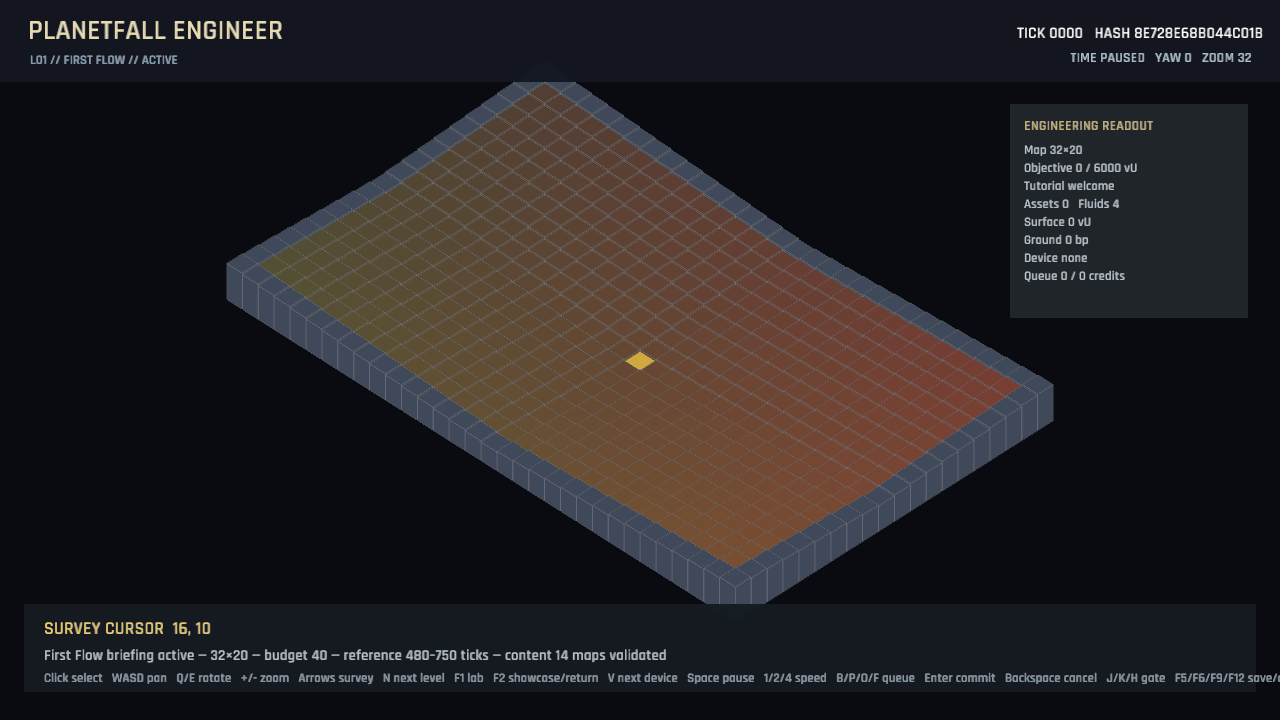
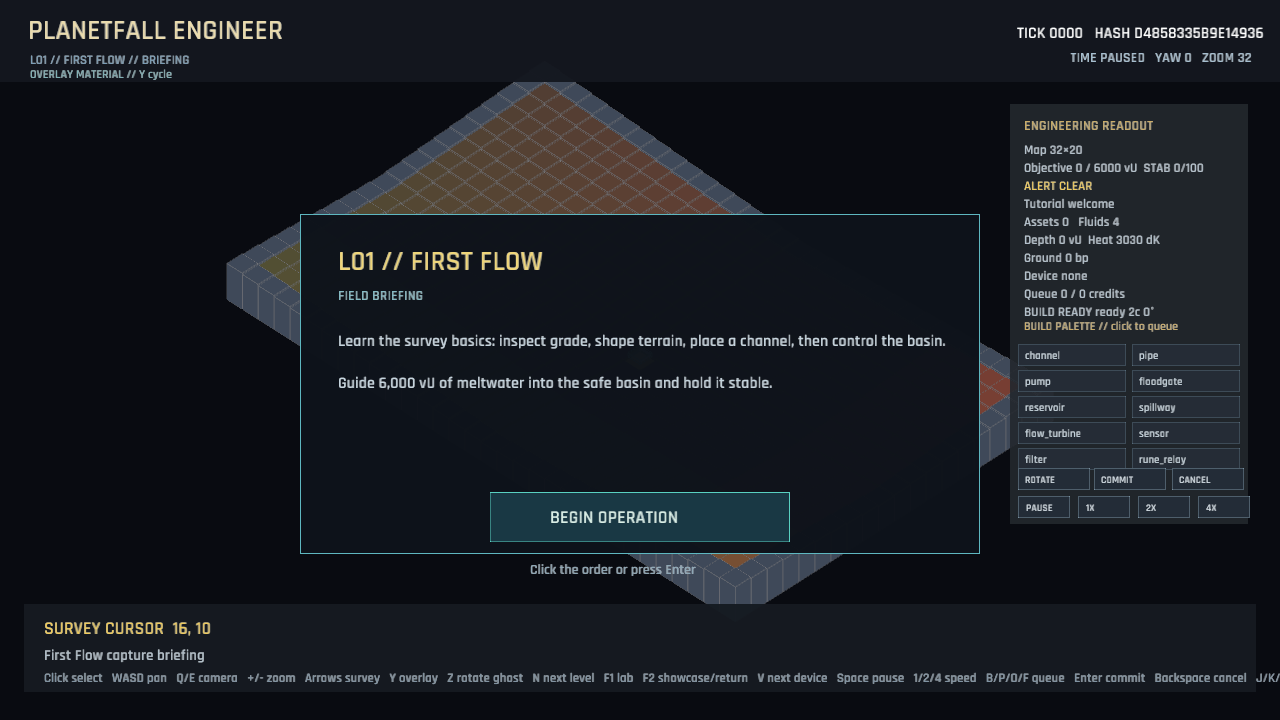
Each restoration front opens with its own field orders (campaign briefings and stage guidance)
The three authored stages previously began as paused maps with only the HUD\nphase label to explain their purpose. A blocking briefing now states each\nstage's lesson and primary objective, and requires the visible BEGIN\nOPERATION action or Enter before commands and simulation can proceed. L02 and\nL03 retain short on-map guides for their surge and reaction lessons after\ndeployment.\n\nThe campaign documentation and 1280×720 briefing captures now describe and\nprove the player-facing deployment flow. cargo fmt --check, Clippy with\nwarnings denied, 54 tests, and the Windows/WebGL publish.ps1 path pass.\n\nCo-Authored-By: GPT-5 <noreply@openai.com>

diff --git a/src/ui.rs b/src/ui.rs
@@ -332,10 +332,18 @@ pub fn draw_hud(ctx: UiContext<'_>) {
     ) {
         draw_terminal_panel(ctx.session);
     }
+    if ctx.session.mission.phase == MissionPhase::Briefing {
+        draw_mission_briefing(ctx.session);
+    }
     if let Some(tutorial) = ctx.session.mission.tutorial.as_ref() {
-        if !tutorial.is_complete() {
+        if ctx.session.mission.phase == MissionPhase::Active && !tutorial.is_complete() {
             draw_tutorial_prompt(tutorial);
         }
+    }
+    if ctx.session.mission.phase == MissionPhase::Active
+        && ctx.session.mission.id != crate::mission::MissionId::L01FirstFlow
+    {
+        draw_stage_guide(ctx.session.mission.id);
     }
     if ctx.pause_menu {
         draw_pause_menu();
@@ -459,6 +467,127 @@ fn draw_terminal_panel(session: &GameSession) {
         336.0,
         396.0,
         TextStyle::new(15.0, Color::new(0.95, 0.8, 0.35, 1.0)).params(),
+    );
+}
+
+fn draw_mission_briefing(session: &GameSession) {
+    let (title, lesson, objective) = match session.mission.id {
+        crate::mission::MissionId::L01FirstFlow => (
+            "L01 // FIRST FLOW",
+            "Learn the survey basics: inspect grade, shape terrain, place a channel, then control the basin.",
+            "Guide 6,000 vU of meltwater into the safe basin and hold it stable.",
+        ),
+        crate::mission::MissionId::L02HoldingLine => (
+            "L02 // THE HOLDING LINE",
+            "Plan for a scheduled surge. Use storage, spillways, and optional sensing to keep the camp dry.",
+            "Hold 6,000 vU safely while the meltwater source rises and falls.",
+        ),
+        crate::mission::MissionId::L03Firebreak => (
+            "L03 // FIREBREAK PROTOCOL",
+            "Combine routing with reaction engineering: water and lava form rock and steam.",
+            "Build a 3,000 vU firebreak before lava can reach the ancient foundation.",
+        ),
+    };
+    draw_rectangle(
+        300.0,
+        214.0,
+        680.0,
+        340.0,
+        Color::new(0.03, 0.05, 0.08, 0.98),
+    );
+    draw_rectangle_lines(
+        300.0,
+        214.0,
+        680.0,
+        340.0,
+        2.0,
+        Color::new(0.35, 0.74, 0.78, 0.95),
+    );
+    draw_ui_text_ex(
+        title,
+        338.0,
+        270.0,
+        TextStyle::new(28.0, Color::new(0.94, 0.84, 0.48, 1.0)).params(),
+    );
+    draw_ui_text_ex(
+        "FIELD BRIEFING",
+        338.0,
+        300.0,
+        TextStyle::new(14.0, Color::new(0.52, 0.74, 0.78, 1.0)).params(),
+    );
+    draw_ui_text_ex(
+        lesson,
+        338.0,
+        346.0,
+        TextStyle::new(16.0, Color::new(0.78, 0.84, 0.88, 1.0)).params(),
+    );
+    draw_ui_text_ex(
+        objective,
+        338.0,
+        388.0,
+        TextStyle::new(16.0, Color::new(0.78, 0.84, 0.88, 1.0)).params(),
+    );
+    draw_rectangle(490.0, 492.0, 300.0, 50.0, Color::new(0.1, 0.22, 0.27, 1.0));
+    draw_rectangle_lines(
+        490.0,
+        492.0,
+        300.0,
+        50.0,
+        1.5,
+        Color::new(0.35, 0.82, 0.76, 1.0),
+    );
+    draw_ui_text_ex(
+        "BEGIN OPERATION",
+        550.0,
+        523.0,
+        TextStyle::new(18.0, Color::new(0.85, 0.94, 0.9, 1.0)).params(),
+    );
+    draw_ui_text_ex(
+        "Click the order or press Enter",
+        530.0,
+        574.0,
+        TextStyle::new(14.0, Color::new(0.56, 0.66, 0.72, 1.0)).params(),
+    );
+}
+
+fn draw_stage_guide(id: crate::mission::MissionId) {
+    let (heading, guidance) = match id {
+        crate::mission::MissionId::L02HoldingLine => (
+            "FIELD GUIDE // HOLDING LINE",
+            "Watch the alert level. The source surges at tick 900; reservoirs retain water and spillways shed excess.",
+        ),
+        crate::mission::MissionId::L03Firebreak => (
+            "FIELD GUIDE // FIREBREAK",
+            "Bring water to lava deliberately: their reaction creates the rock barrier. Keep lava away from the foundation.",
+        ),
+        crate::mission::MissionId::L01FirstFlow => return,
+    };
+    draw_rectangle(
+        24.0,
+        104.0,
+        620.0,
+        76.0,
+        Color::new(0.035, 0.055, 0.08, 0.96),
+    );
+    draw_rectangle_lines(
+        24.0,
+        104.0,
+        620.0,
+        76.0,
+        1.5,
+        Color::new(0.52, 0.74, 0.78, 0.9),
+    );
+    draw_ui_text_ex(
+        heading,
+        42.0,
+        130.0,
+        TextStyle::new(13.0, Color::new(0.52, 0.78, 0.8, 1.0)).params(),
+    );
+    draw_ui_text_ex(
+        guidance,
+        42.0,
+        158.0,
+        TextStyle::new(14.0, Color::new(0.84, 0.88, 0.9, 1.0)).params(),
     );
 }
 

diff --git a/src/game.rs b/src/game.rs
@@ -153,13 +153,17 @@ impl Game {
         if scene.starts_with("lab_fluids_all") {
             self.toggle_lab_mode();
         }
-        if scene.starts_with("campaign_l02") {
+        if scene.contains("campaign_l01") {
+            self.load_mission(MissionId::L01FirstFlow, "capture briefing");
+        }
+        if scene.contains("campaign_l02") {
             self.load_mission(MissionId::L02HoldingLine, "capture briefing");
         }
-        if scene.starts_with("campaign_l03") {
+        if scene.contains("campaign_l03") {
             self.load_mission(MissionId::L03Firebreak, "capture briefing");
         }
         if scene.contains("active") {
+            self.session.mission.start();
             self.session.time_control = TimeControl::OneX;
             self.notice = "Authored campaign source active — observe the live material loop".into();
         }
@@ -193,6 +197,16 @@ impl Game {
     pub fn update(&mut self, dt: f32) {
         if self.frontend_mode != FrontendMode::Playing {
             self.update_frontend();
+            return;
+        }
+        if self.session.mission.phase == MissionPhase::Briefing {
+            if is_key_pressed(KeyCode::Enter) || self.handle_briefing_click() {
+                self.session.mission.start();
+                self.notice = format!(
+                    "{} operation active — follow the field guide and begin when ready",
+                    self.session.mission.id.name()
+                );
+            }
             return;
         }
         if is_key_pressed(KeyCode::Escape) {
@@ -597,7 +611,6 @@ impl Game {
             .simulation
             .set_sources_enabled(id != MissionId::L01FirstFlow);
         self.session.mission = crate::mission::MissionState::new(id);
-        self.session.mission.start();
         self.session.campaign = campaign_progress;
         self.session.selected = CellPos {
             x: (width / 2) as u16,
@@ -619,6 +632,16 @@ impl Game {
         if self.admit(command) {
             self.session.time_control = time;
         }
+    }
+
+    fn handle_briefing_click(&self) -> bool {
+        if !is_mouse_button_pressed(MouseButton::Left) {
+            return false;
+        }
+        let (mouse_x, mouse_y) = mouse_position();
+        let x = mouse_x / (screen_width() / ui::LOGICAL_WIDTH);
+        let y = mouse_y / (screen_height() / ui::LOGICAL_HEIGHT);
+        (490.0..=790.0).contains(&x) && (492.0..=542.0).contains(&y)
     }
 
     pub(crate) fn admit(&mut self, command: CommandKind) -> bool {

diff --git a/docs/06_FIRST_THREE_LEVELS.md b/docs/06_FIRST_THREE_LEVELS.md
@@ -12,6 +12,10 @@ fluid surfaces/sides, machine models, shadows, 3D placement/picking, and four
 camera yaw quarters from §11. Reference solutions are executed through world
 hits and admitted commands; a 2D debug grid is not acceptable gameplay evidence.
 
+Each deployment opens on a blocking field briefing that names the new concept,
+the primary objective, and a visible `BEGIN OPERATION` action. Commands and
+simulation remain paused until the player clicks that action or presses Enter.
+
 | Seq. | ID | Name | New concepts | Target first-play time |
 | ---: | --- | --- | --- | ---: |
 | 1 | `campaign_l01_first_flow` | First Flow | camera, cursor, inspect, excavation, channel, gate, run/observe | 8–12 min |

diff --git a/README.md b/README.md
@@ -196,7 +196,9 @@ toolkit async loaders, and save data uses macroquad-toolkit persistence.
 cargo run
 ```
 
-Start a new campaign to enter L01's guided onboarding. The title-screen
+Start a new campaign to enter L01's guided onboarding and its short field
+briefing. Every stage begins with a readable mission brief and a visible Begin
+Operation control. The title-screen
 campaign board shows which of L01–L03 is unlocked, while Verification Grounds
 opens the laboratory and all ten device showcases without disturbing a campaign
 in progress.
